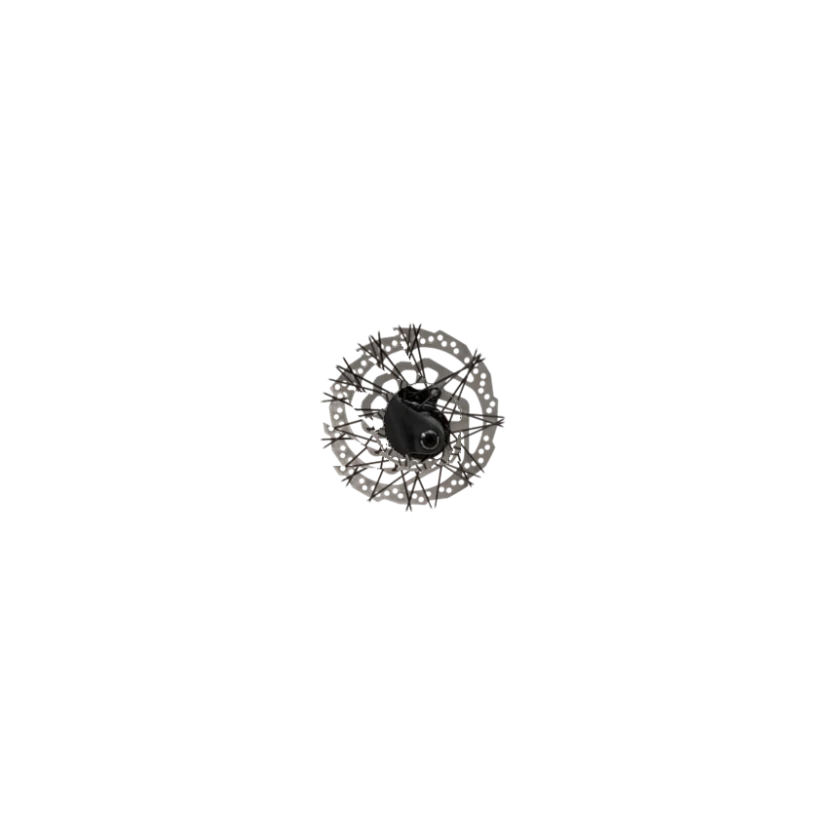
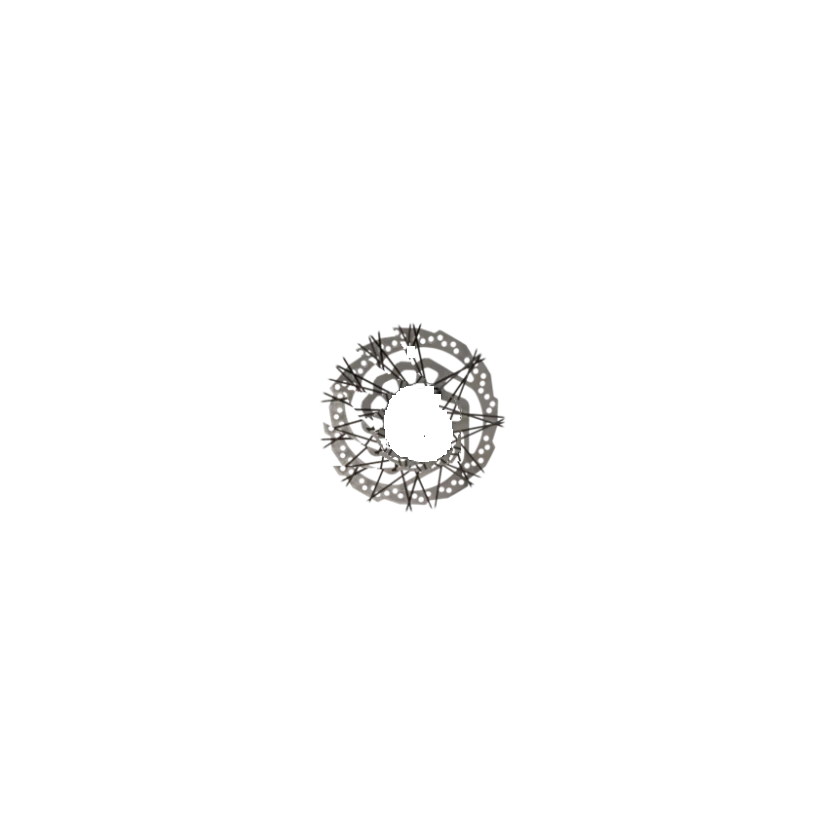
Discos nas duas rodas, pinca no garfo, sem rastro do mouse

Changed region(s): [[0.4333, 0.4643, 0.5571, 0.5571], [0.4643, 0.4024, 0.4952, 0.4333]]

diff --git a/atual/index.html b/atual/index.html
@@ -23,7 +23,7 @@
 <script src="assets/vendor/gsap.min.js" defer></script>
 <script src="assets/vendor/ScrollTrigger.min.js" defer></script>
 <script src="assets/vendor/lenis.min.js" defer></script>
-<script src="assets/cena.js?v=10" defer></script>
+<script src="assets/cena.js?v=11" defer></script>
 <script src="assets/app.js" defer></script>
 </head>
 <body>
@@ -67,14 +67,14 @@
     <div class="palco-area">
       <div class="palco" id="palco">
         <div class="sombra" aria-hidden="true"></div>
-        <div class="parte roda" id="p-rt"><img src="assets/cena/roda-tras.webp?v=7" alt="" class="g" width="840" height="840"><img src="assets/cena/roda-tras-giro.webp?v=7" alt="" class="g giro" width="840" height="840">
+        <div class="parte roda" id="p-rt"><img src="assets/cena/roda-tras.webp?v=7" alt="" class="g" width="840" height="840"><img src="assets/cena/roda-tras-giro.webp?v=7" alt="" class="g giro" width="840" height="840"><img src="assets/cena/disco-tras.webp?v=8" alt="" class="fixo" width="840" height="840">
           <a class="rot rot-rt" href="https://6afee227e12ae1f82abc1a2f--impactobike.netlify.app/c/pecas/rodas-e-pneus/"><b>Rodas e pneus</b><span>137 produtos →</span></a></div>
-        <div class="parte roda" id="p-rf"><img src="assets/cena/roda-frente.webp?v=7" alt="" class="g" width="840" height="840"><img src="assets/cena/roda-frente-giro.webp?v=7" alt="" class="g giro" width="840" height="840">
+        <div class="parte roda" id="p-rf"><img src="assets/cena/roda-frente.webp?v=7" alt="" class="g" width="840" height="840"><img src="assets/cena/roda-frente-giro.webp?v=7" alt="" class="g giro" width="840" height="840"><img src="assets/cena/disco-frente.webp?v=10" alt="" class="fixo" width="840" height="840">
           <a class="rot rot-rf" href="https://6afee227e12ae1f82abc1a2f--impactobike.netlify.app/c/pecas/freios/"><b>Freios e discos</b><span>165 produtos →</span></a></div>
         <div class="parte" id="p-qd"><canvas class="tr tr-atras" width="1054" height="960" aria-hidden="true"></canvas><img src="assets/cena/quadro.webp?v=6" alt="Bicicleta de carbono vinho com transmissão Shimano" width="1054" height="870"><canvas class="tr tr-frente" width="1054" height="960" aria-hidden="true"></canvas>
           <a class="rot rot-qd1" href="https://6afee227e12ae1f82abc1a2f--impactobike.netlify.app/c/pecas/quadros-e-suspensoes/"><b>Quadros e suspensões</b><span>29 produtos →</span></a>
           <a class="rot rot-qd2" href="https://6afee227e12ae1f82abc1a2f--impactobike.netlify.app/c/pecas/transmissao/"><b>Transmissão Shimano</b><span>451 produtos →</span></a></div>
-        <div class="parte" id="p-fr"><img src="assets/cena/frente.webp?v=10" alt="" width="440" height="820">
+        <div class="parte" id="p-fr"><img src="assets/cena/frente.webp?v=11" alt="" width="440" height="820">
           <a class="rot rot-fr1" href="https://6afee227e12ae1f82abc1a2f--impactobike.netlify.app/c/pecas/quadros-e-suspensoes/suspensoes-e-garfos/"><b>Suspensões e garfos</b><span>16 produtos →</span></a>
           <a class="rot rot-fr2" href="https://6afee227e12ae1f82abc1a2f--impactobike.netlify.app/c/pecas/componentes/"><b>Guidão, mesa e manete</b><span>434 produtos →</span></a></div>
         <div class="parte" id="p-se"><img src="assets/cena/selim.webp" alt="">

diff --git a/atual/assets/cena.js b/atual/assets/cena.js
@@ -114,7 +114,7 @@
       if (u < L1 + LA) { var t = th1 + (u - L1) / RC; return [C[0] + RC * Math.cos(t), C[1] + RC * Math.sin(t)]; }
       u -= L1 + LA; return [T2[0] + d2[0] * u, T2[1] + d2[1] * u];
     }
-    var nomes = ['coroa', 'coroa-giro', 'pedivela', 'corrente', 'corrente-giro', 'cassete', 'cassete-giro', 'disco-tras'], im = {}, faltam = nomes.length, ok = false;
+    var nomes = ['coroa', 'coroa-giro', 'pedivela', 'corrente', 'corrente-giro', 'cassete', 'cassete-giro'], im = {}, faltam = nomes.length, ok = false;
     nomes.forEach(function (n) {
       var i = new Image(); i.decoding = 'async';
       i.onload = function () { if (--faltam === 0) { ok = true; desenha(ultA, true); } };
@@ -162,7 +162,6 @@
       var dfi = suave * Math.PI / 180 * RCOG / RC;
       cf.clearRect(0, 0, W, H); ca.clearRect(0, 0, W, H);
       // cassete (atrás do quadro e do câmbio): a foto parada; com velocidade, o borrão de giro
-      ca.globalAlpha = 1; ca.drawImage(im['disco-tras'], -313, 192);   // disco de trás fica no quadro (igual ao da frente, no garfo)
       ca.globalAlpha = 1 - o; ca.drawImage(im.cassete, 0, 488);
       if (o > 0) { ca.globalAlpha = o; ca.drawImage(im['cassete-giro'], 0, 488); }
       ca.globalAlpha = 1;
@@ -290,7 +289,7 @@
   Promise.race([pronta, new Promise(function (r) { setTimeout(r, 3500); })]).then(function () {
     html.classList.remove('cena-carregando'); html.classList.add('cena-pronta');
     if (lenis) lenis.resize();
-    luz(); rodas(); palavraGira(); entrada(); rolagem(); rastro();
+    luz(); rodas(); palavraGira(); entrada(); rolagem();   // rastro do mouse desligado (atrapalhava o cursor)
     ST.refresh();
   });
 })();
